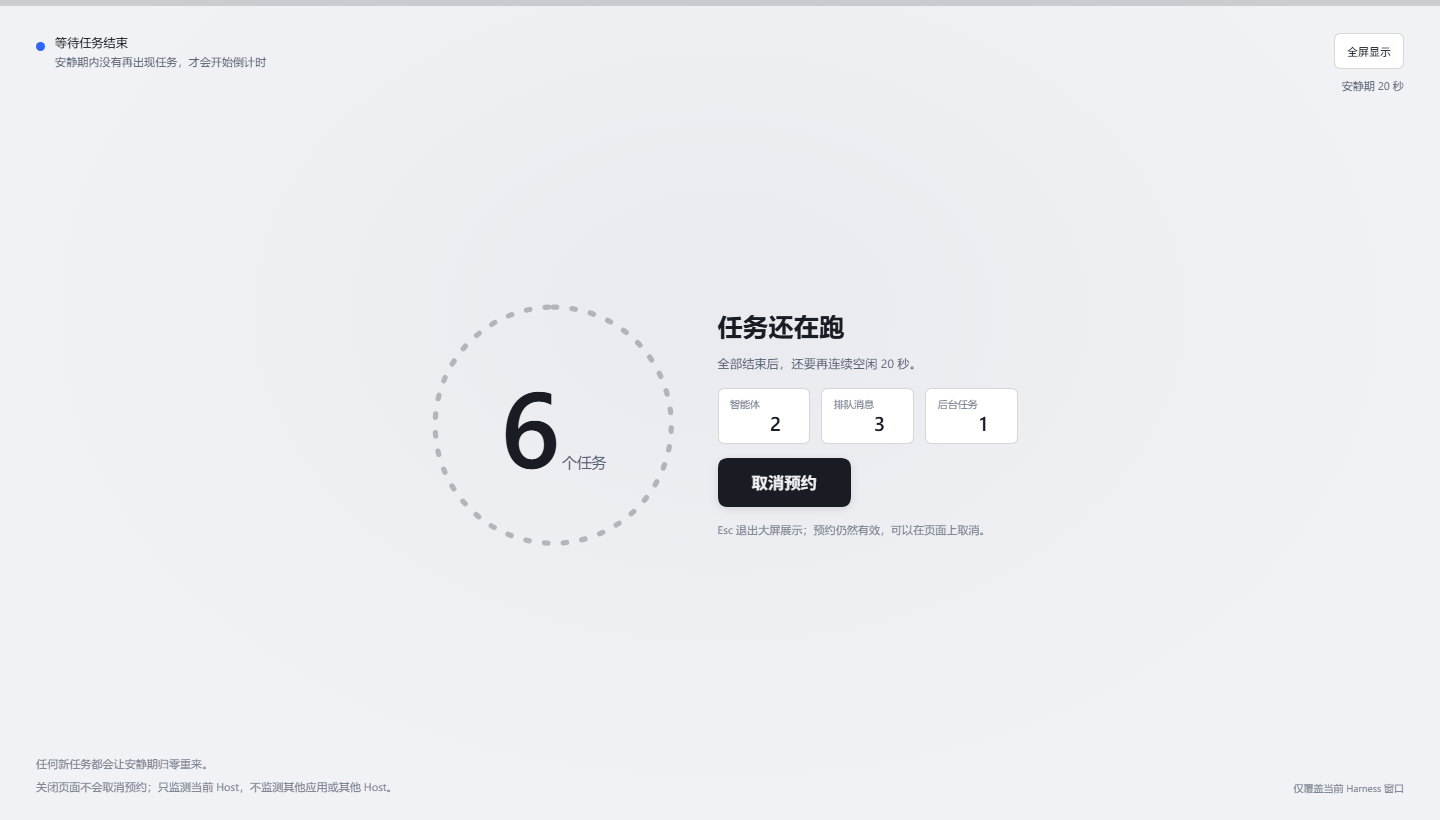
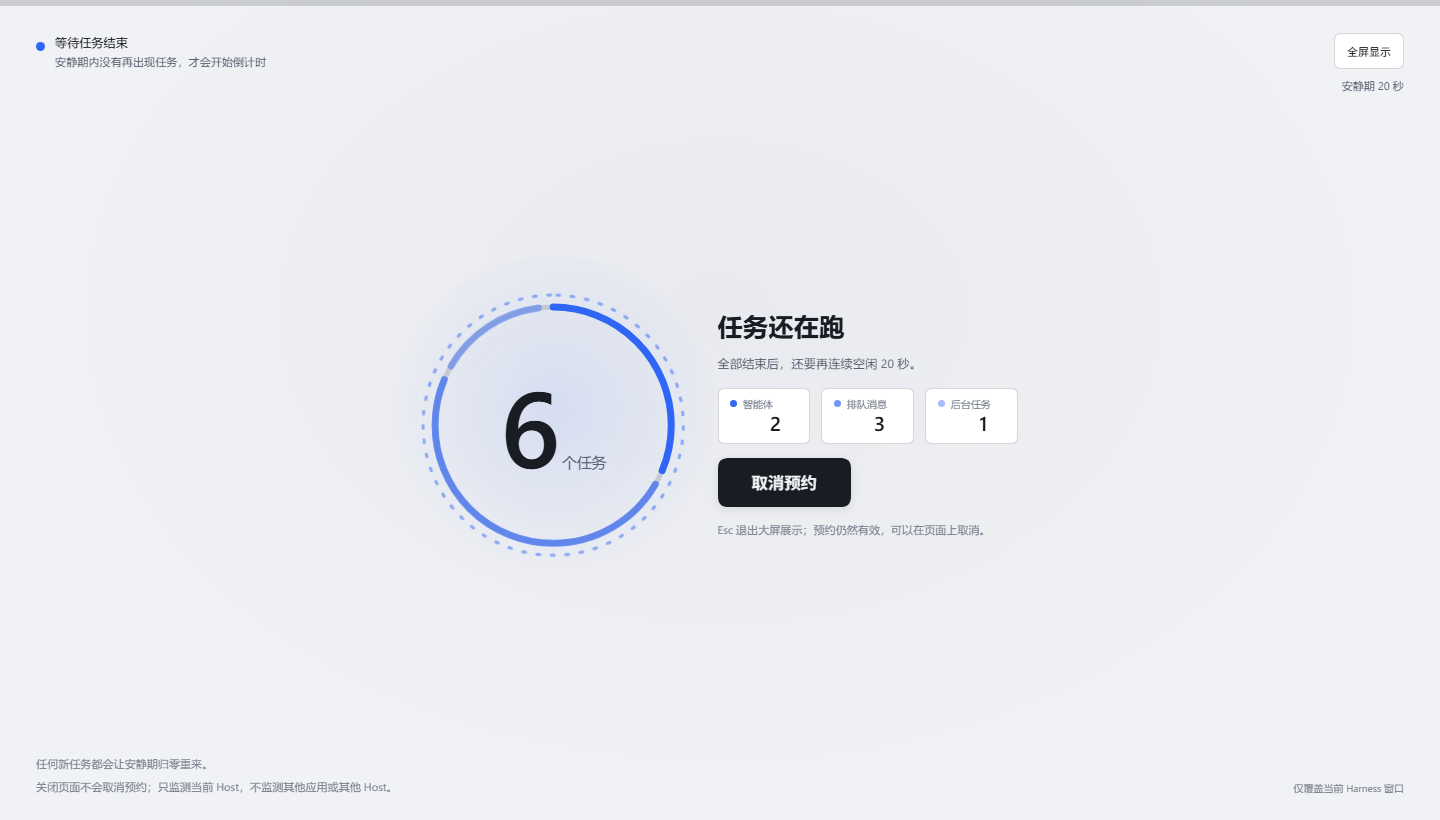
feat(ui): give the waiting screen motion and a readable task breakdown
The waiting screen lost its only animation when the decorative orb became a dial
in #11: `ipa-orbit` was left in the stylesheet with nothing using it, so the one
state that sits there for minutes was the one with no motion at all. The dial
also carried a single number with no sign of what it was made of.

- **Motion, at a waiting pace.** A halo breathes behind the dial, a dotted sweep
  turns outside it, the count gets one beat when it changes, and the legend rises
  in behind it. Everything is far slower than the countdown, and all of it sits
  inside the scrim, which the existing reduced-motion block already silences.
- **The ring shows the composition.** While tasks are running it is drawn as one
  arc per kind of work, in three tones of one hue so it never borrows a semantic
  colour the data does not have, with a small gap between series so the shares
  have edges. Once nothing is running it goes back to being quiet progress.
- The legend cards carry the matching tone dot, so the ring can be read without
  guessing which segment is which.

The tone floor is 100 / 68 / 44 rather than a wider ramp: at 22 % the third
series disappeared against a light surface.

Screenshots in `docs/` are regenerated from the same preview page.

diff --git a/client.js b/client.js
@@ -605,7 +605,7 @@ background-color:rgba(9,11,16,.42);
    colour, an orb instead of a counting ring, and no urgency accent. */
 .ipa-waitStats{display:grid;grid-template-columns:repeat(3,minmax(0,1fr));gap:clamp(8px,1.4vmin,16px);margin:0;width:100%}
 .ipa-waitStat{display:flex;flex-direction:column;gap:2px;padding:clamp(6px,1vmin,10px) clamp(8px,1.4vmin,14px);border-radius:var(--dsw-radius-sm);border:.5px solid var(--dsw-alias-border-l2);background:var(--dsw-alias-bg-layer-2)}
-.ipa-waitStatLabel{color:var(--dsw-alias-label-tertiary);font-size:clamp(10px,1.2vmin,13px);line-height:1.4}
+.ipa-waitStatLabel{display:flex;align-items:center;color:var(--dsw-alias-label-tertiary);font-size:clamp(10px,1.2vmin,13px);line-height:1.4}
 .ipa-waitStatValue{color:var(--dsw-alias-label-primary);font-size:clamp(16px,2.4vmin,26px);font-weight:600;font-variant-numeric:tabular-nums;line-height:1.1}
 @keyframes ipa-orbit{to{transform:rotate(360deg)}}
 .ipa-dialWrap{flex:0 0 auto;display:grid;place-items:center;animation:ipa-dial-in 380ms var(--ipa-ease)}
@@ -629,8 +629,37 @@ background-color:rgba(9,11,16,.42);
 .ipa-dial[data-tone=calm] .ipa-unit{font-size:clamp(13px,1.8vmin,20px)}
 /* Blocked means the quiet window has not started at all, so the track is dashed
    instead of an empty arc, which reads as a widget that failed to load. */
-.ipa-dial[data-state=blocked] .ipa-ringTrack{stroke-dasharray:1.6 7;stroke-linecap:round}
+.ipa-dial[data-state=blocked] .ipa-ringTrack{opacity:.55}
 .ipa-dial[data-state=blocked] .ipa-ringValue{display:none}
+
+/* The waiting screen must feel alive without reading as urgent: a slow
+   breathing halo behind the dial, and a sweep that says the Host is still
+   looking for work. Both stay far slower than the countdown. */
+.ipa-waitDial{position:relative;display:grid;place-items:center;flex:none}
+.ipa-waitHalo{position:absolute;inset:-16%;border-radius:50%;corner-shape:round;background:radial-gradient(circle at 50% 46%,color-mix(in srgb,var(--dsw-alias-brand-primary) 24%,transparent),transparent 68%);pointer-events:none;animation:ipa-breathe 5.6s ease-in-out infinite}
+/* Outside the ring, so its rotation reads: the composition itself must not
+   spin, because the numbers are not moving. */
+.ipa-ringSweep{animation:ipa-orbit 14s linear infinite}
+.ipa-waitSweepArc{fill:none;stroke:var(--dsw-alias-brand-primary);stroke-width:1.4;stroke-linecap:round;stroke-dasharray:1.2 5.4;opacity:.5}
+@keyframes ipa-breathe{0%,100%{opacity:.45;transform:scale(.985)}50%{opacity:.9;transform:scale(1.02)}}
+/* Three tones of one hue, so the composition ring reads as one family
+   instead of borrowing semantic colours the data does not have. */
+.ipa-dial[data-tone=calm] .ipa-segA{stroke:var(--dsw-alias-brand-primary)}
+.ipa-dial[data-tone=calm] .ipa-segB{stroke:color-mix(in srgb,var(--dsw-alias-brand-primary) 68%,transparent)}
+.ipa-dial[data-tone=calm] .ipa-segC{stroke:color-mix(in srgb,var(--dsw-alias-brand-primary) 44%,transparent)}
+.ipa-dial[data-tone=calm] .ipa-segA,.ipa-dial[data-tone=calm] .ipa-segB,.ipa-dial[data-tone=calm] .ipa-segC{fill:none;stroke-width:3.2;stroke-linecap:round;transition:stroke-dasharray .34s var(--dsw-ease, ease),stroke-dashoffset .34s var(--dsw-ease, ease)}
+/* A changed number is news, so it gets one short beat. */
+.ipa-count[data-fresh]{animation:ipa-count-pop 300ms var(--dsw-ease, ease)}
+@keyframes ipa-count-pop{0%{opacity:.25;transform:translateY(.06em) scale(.94)}100%{opacity:1;transform:none}}
+/* The legend rises in behind the dial rather than appearing all at once. */
+.ipa-waitStats[data-fresh]{animation:ipa-rise 420ms var(--dsw-ease, ease) backwards}
+.ipa-waitStat{--ipa-stagger:0ms}
+.ipa-waitStat[data-fresh]{animation:ipa-rise 420ms var(--dsw-ease, ease) backwards;animation-delay:var(--ipa-stagger)}
+@keyframes ipa-rise{from{opacity:0;transform:translateY(6px)}to{opacity:1;transform:none}}
+.ipa-waitStatDot{display:inline-block;vertical-align:middle;inline-size:7px;block-size:7px;margin-right:6px;border-radius:50%;corner-shape:round;background:var(--ipa-DOT)}
+.ipa-waitStat[data-part=agents]{--ipa-DOT:var(--dsw-alias-brand-primary)}
+.ipa-waitStat[data-part=inbox]{--ipa-DOT:color-mix(in srgb,var(--dsw-alias-brand-primary) 68%,transparent)}
+.ipa-waitStat[data-part=jobs]{--ipa-DOT:color-mix(in srgb,var(--dsw-alias-brand-primary) 44%,transparent)}
 .ipa-stageText{display:flex;flex-direction:column;align-items:flex-start;gap:clamp(10px,1.7vmin,24px);min-width:min(300px,82vw);max-width:min(560px,86vw)}
 .ipa-mode{font-size:clamp(20px,3.1vmin,46px);font-weight:600;line-height:1.15;color:var(--dsw-alias-label-primary)}
 .ipa-metaLine{font-size:clamp(12px,1.5vmin,18px);line-height:1.6;color:var(--dsw-alias-label-secondary);font-variant-numeric:tabular-nums}
@@ -1950,6 +1979,25 @@ background-color:rgba(9,11,16,.42);
       const blockedFor = Math.max(0, data.blockedForSeconds ?? 0);
       const stuckAfter = data.stuckAfterSeconds > 0 ? data.stuckAfterSeconds : 600;
       const stuck = blocked && blockedFor >= stuckAfter;
+
+      // The ring answers "how much is in the way" three ways: as a composition
+      // while tasks are running, as quiet progress once they are gone.
+      const parts = [
+        { part: 'agents', value: load.agentsRunning ?? 0, seg: 'ipa-segA', label: 'wait.agents' },
+        { part: 'inbox', value: load.inboxPending ?? 0, seg: 'ipa-segB', label: 'wait.inbox' },
+        { part: 'jobs', value: load.jobsRunning ?? 0, seg: 'ipa-segC', label: 'wait.jobs' },
+      ]
+      const partTotal = parts.reduce((sum, one) => sum + one.value, 0) || 1
+      // A small gap between series: without an edge the three tones blur into
+      // one ring and the composition reads as a single progress value.
+      const SEGMENT_GAP = 7
+      let drawn = 0
+      const arcs = parts.map((one) => {
+        const share = (one.value / partTotal) * WAIT_CIRCUMFERENCE
+        const arc = { ...one, length: Math.max(share - SEGMENT_GAP, 0.6), offset: -drawn }
+        drawn += share
+        return arc
+      }).filter((one) => one.value > 0)
       const forceLabel = t(data.mode === 'shutdown' ? 'wait.force' : 'wait.forceHibernate');
       // The waiting screen shares the countdown's surface tokens, so a pinned
       // colour and its ink carry over instead of flashing the theme colour.
@@ -2037,40 +2085,67 @@ background-color:rgba(9,11,16,.42);
             ),
           ),
           h('div', { className: 'ipa-stage' },
-            h('div', {
-              className: 'ipa-dial',
-              'data-tone': 'calm',
-              'data-state': blocked ? 'blocked' : 'running',
-              role: 'progressbar',
-              'aria-label': t('wait.quietProgress'),
-              'aria-valuemin': 0,
-              'aria-valuemax': quietTotal,
-              'aria-valuenow': Math.round(done * quietTotal),
-              'aria-valuetext': supportLine,
-            },
-              h('svg', { className: 'ipa-ring', viewBox: '0 0 120 120', 'aria-hidden': true },
-                h('circle', { className: 'ipa-ringTrack', cx: 60, cy: 60, r: WAIT_RADIUS }),
-                h('circle', {
-                  className: 'ipa-ringValue',
-                  cx: 60,
-                  cy: 60,
-                  r: WAIT_RADIUS,
-                  'stroke-dasharray': WAIT_CIRCUMFERENCE,
-                  'stroke-dashoffset': WAIT_CIRCUMFERENCE * (1 - done),
-                }),
-              ),
-              h('div', { className: 'ipa-dialCenter', role: 'timer', 'aria-live': 'off' },
-                h('span', { className: 'ipa-count' }, String(bigValue)),
-                h('span', { className: 'ipa-unit' }, bigUnit),
+            h('div', { className: 'ipa-waitDial' },
+              h('span', { className: 'ipa-waitHalo', 'aria-hidden': true }),
+              h('div', {
+                className: 'ipa-dial',
+                'data-tone': 'calm',
+                'data-state': blocked ? 'blocked' : 'running',
+                role: 'progressbar',
+                'aria-label': t('wait.quietProgress'),
+                'aria-valuemin': 0,
+                'aria-valuemax': blocked ? partTotal : quietTotal,
+                'aria-valuenow': blocked ? partTotal : Math.round(done * quietTotal),
+                'aria-valuetext': supportLine,
+              },
+                h('svg', { className: 'ipa-ring', viewBox: '0 0 120 120', 'aria-hidden': true },
+                  h('circle', { className: 'ipa-ringTrack', cx: 60, cy: 60, r: WAIT_RADIUS }),
+                  // Blocked: one arc per kind of work, sharing the circumference.
+                  blocked && arcs.map((one) => h('circle', {
+                    key: one.part,
+                    className: one.seg,
+                    cx: 60,
+                    cy: 60,
+                    r: WAIT_RADIUS,
+                    'stroke-dasharray': `${one.length} ${WAIT_CIRCUMFERENCE - one.length}`,
+                    'stroke-dashoffset': one.offset,
+                  })),
+                  // Counting: the quiet window filling up, exactly as before.
+                  !blocked && h('circle', {
+                    className: 'ipa-ringValue',
+                    cx: 60,
+                    cy: 60,
+                    r: WAIT_RADIUS,
+                    'stroke-dasharray': WAIT_CIRCUMFERENCE,
+                    'stroke-dashoffset': WAIT_CIRCUMFERENCE * (1 - done),
+                  }),
+                ),
+                blocked && h('svg', { className: 'ipa-ring ipa-ringSweep', viewBox: '0 0 120 120', 'aria-hidden': true },
+                  h('circle', { className: 'ipa-waitSweepArc', cx: 60, cy: 60, r: WAIT_RADIUS + 5.5 }),
+                ),
+                h('div', { className: 'ipa-dialCenter', role: 'timer', 'aria-live': 'off' },
+                  // Re-keying on the value replays one short beat when it changes.
+                  h('span', { className: 'ipa-count', key: String(bigValue), 'data-fresh': '' }, String(bigValue)),
+                  h('span', { className: 'ipa-unit' }, bigUnit),
+                ),
               ),
             ),
             h('div', { className: 'ipa-stageText' },
               h('div', { className: 'ipa-mode' }, headline),
               h('div', { className: 'ipa-metaLine' }, supportLine),
               h('dl', { className: 'ipa-waitStats' },
-                ...[['wait.agents', load.agentsRunning], ['wait.inbox', load.inboxPending], ['wait.jobs', load.jobsRunning]].map(([key, value]) => h('div', { className: 'ipa-waitStat', key },
-                  h('dt', { className: 'ipa-waitStatLabel' }, t(key)),
-                  h('dd', { className: 'ipa-waitStatValue' }, String(value ?? 0)),
+                ...parts.map((one, index) => h('div', {
+                  className: 'ipa-waitStat',
+                  key: one.part,
+                  'data-part': one.part,
+                  'data-fresh': '',
+                  style: { '--ipa-stagger': `${90 + index * 70}ms` },
+                },
+                  h('dt', { className: 'ipa-waitStatLabel' },
+                    h('span', { className: 'ipa-waitStatDot', 'aria-hidden': true }),
+                    t(one.label),
+                  ),
+                  h('dd', { className: 'ipa-waitStatValue', key: String(one.value) }, String(one.value)),
                 )),
               ),
               (offline || note) && h('div', { className: 'ipa-feedback', role: 'alert' }, offline ? t('countdown.offline') : `${t('status.failed')}: ${describeFailure(noteCode, note, t)}`),
